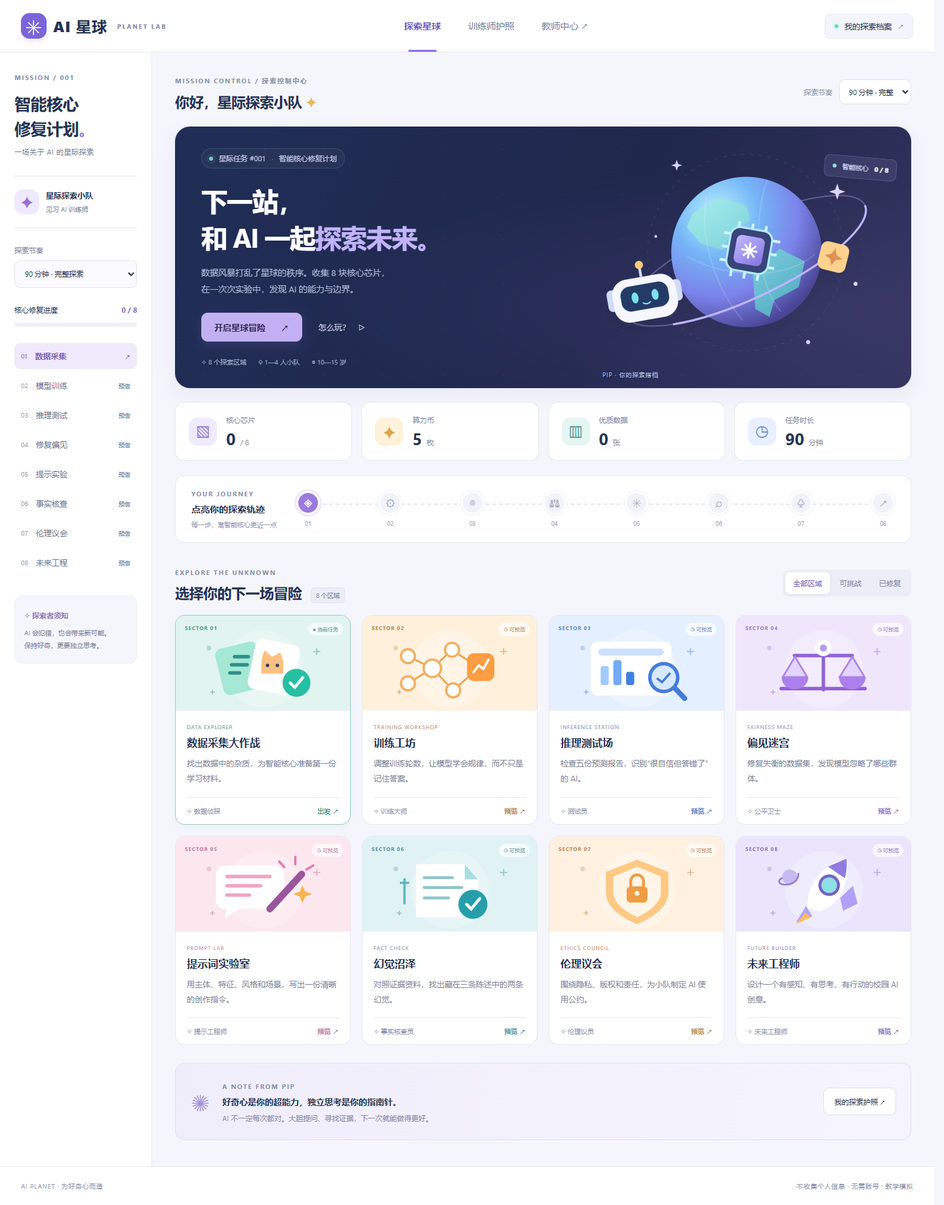
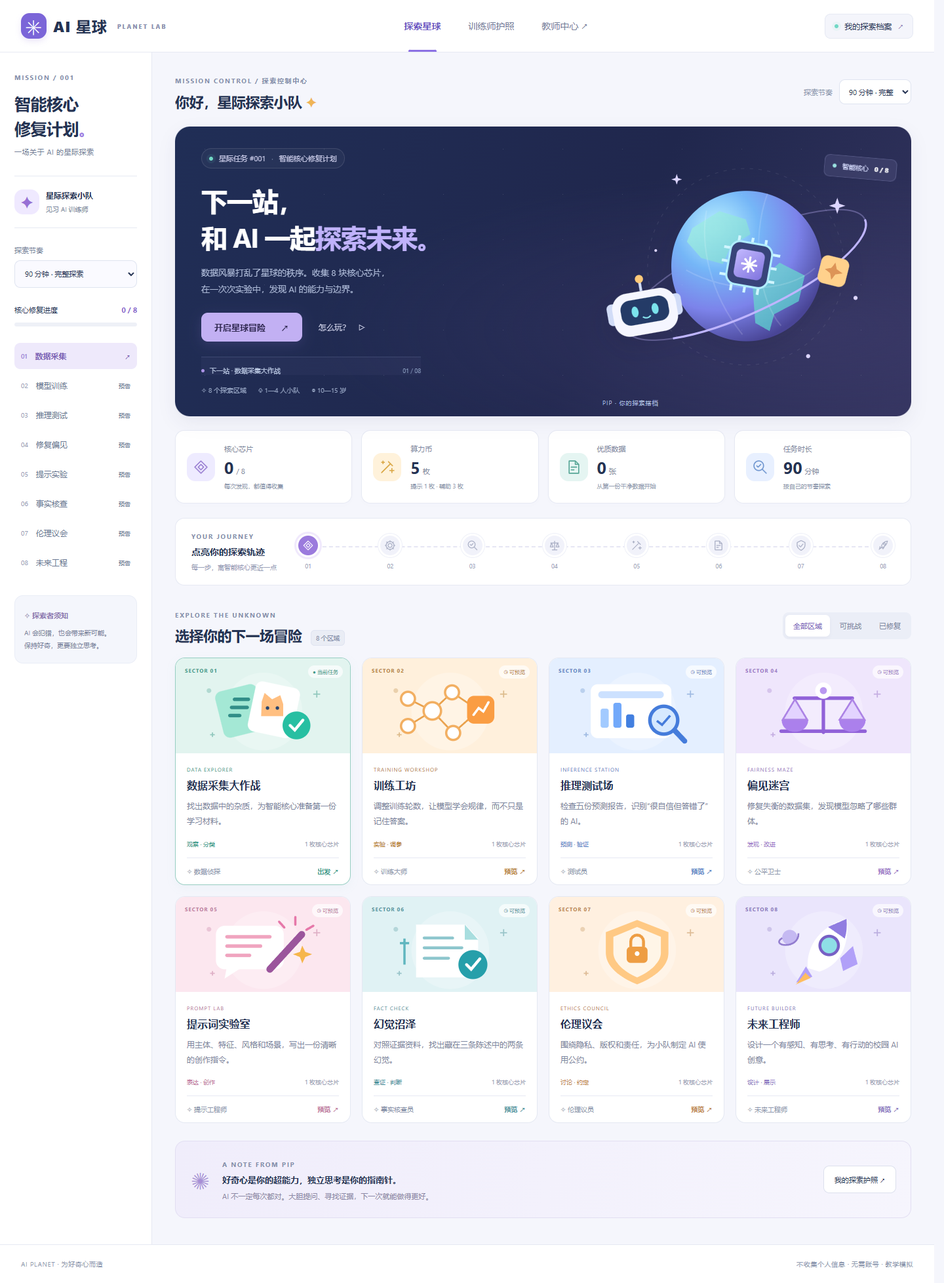
feat: refine mission map typography and iconography (round 2)

diff --git a/app.js b/app.js
@@ -1,6 +1,6 @@
 import { newState, restore, STORAGE_KEY, unlocked, complete, buyHint, buySkip, training, balance, award } from './engine.js';
 import { stages, cards, samples } from './content.js';
-import { scene, heroArt } from './visuals.js';
+import { scene, heroArt, glyph } from './visuals.js';
 
 const $ = (q, root = document) => root.querySelector(q);
 const $$ = (q, root = document) => [...root.querySelectorAll(q)];
@@ -60,7 +60,15 @@ function sync() {
   $('#stage-list').innerHTML = stages.map((s,i) => `<button class="stage-link ${state.completed.includes(i)?'done':unlocked(state,i)?'current':'upcoming'}" data-stage="${i}" aria-label="${s.name}，${unlocked(state,i)?'进入关卡':'查看预告'}"><span>${state.completed.includes(i)?'✓':String(i+1).padStart(2,'0')}</span>${s.short}<small>${!unlocked(state,i)?'预告':'↗'}</small></button>`).join('');
   $$('.nav-button').forEach(b => b.classList.toggle('active', b.dataset.view===view));
 }
-function stats() { return `<div class="stats"><div><span class="stat-symbol">▧</span><div><small>核心芯片</small><strong>${state.completed.length}<em> / 8</em></strong></div></div><div><span class="stat-symbol coin">✦</span><div><small>算力币</small><strong>${state.coins}<em> 枚</em></strong></div></div><div><span class="stat-symbol data">▥</span><div><small>优质数据</small><strong>${state.data}<em> 张</em></strong></div></div><div><span class="stat-symbol time">◷</span><div><small>任务时长</small><strong>${state.mode==='project'?'4':state.mode}<em> ${state.mode==='project'?'课时':'分钟'}</em></strong></div></div></div>`; }
+function stats() {
+  const metrics=[
+    {label:'核心芯片',value:state.completed.length,unit:'/ 8',note:state.completed.length===8?'智能核心已修复':'每次发现，都值得收集',icon:0,style:''},
+    {label:'算力币',value:state.coins,unit:'枚',note:'提示 1 枚 · 辅助 3 枚',icon:4,style:'coin'},
+    {label:'优质数据',value:state.data,unit:'张',note:state.data?'第一关筛选所得':'从第一份干净数据开始',icon:5,style:'data'},
+    {label:'任务时长',value:state.mode==='project'?'4':state.mode,unit:state.mode==='project'?'课时':'分钟',note:'按自己的节奏探索',icon:2,style:'time'}
+  ];
+  return `<div class="stats">${metrics.map(m=>`<div><span class="stat-symbol ${m.style}">${glyph(m.icon)}</span><div><small>${m.label}</small><strong>${m.value}<em>${m.unit}</em></strong><span class="metric-note">${m.note}</span></div></div>`).join('')}</div>`;
+}
 function render() {
   sync();
   if (view === 'passport') return renderPassport();
@@ -69,15 +77,15 @@ function render() {
   const selected = stages.map((s,i) => ({...s,i})).filter(s => filter === 'all' || (filter === 'done' ? state.completed.includes(s.i) : unlocked(state,s.i) && !state.completed.includes(s.i)));
   $('#main').innerHTML = `
     <div class="page-heading"><div><span class="eyebrow">MISSION CONTROL / 探索控制中心</span><h2>你好，${escape(state.team)} <span class="wave">✦</span></h2></div><label class="pace-control" for="map-mode"><span>探索节奏</span><select id="map-mode"><option value="45" ${state.mode==='45'?'selected':''}>45 分钟 · 精简</option><option value="90" ${state.mode==='90'?'selected':''}>90 分钟 · 完整</option><option value="project" ${state.mode==='project'?'selected':''}>4 课时 · 项目</option></select></label></div>
-    <section class="hero"><div class="hero-copy"><span class="mission-pill"><i></i> 星际任务 #001 <span>·</span> 智能核心修复计划</span><h1>下一站，<br>和 AI 一起<span>探索未来。</span></h1><p>数据风暴打乱了星球的秩序。收集 8 块核心芯片，<br>在一次次实验中，发现 AI 的能力与边界。</p><div class="hero-actions"><button class="primary" ${next<0?'data-view="passport"':`data-stage="${next}"`}>${next<0?'查看修复成果':state.completed.length?'继续我的冒险':'开启星球冒险'} <span>↗</span></button><button class="hero-secondary" data-view="teacher">怎么玩？ <span>▷</span></button></div><div class="hero-meta"><span>✧ 8 个探索区域</span><span>♧ 1—4 人小队</span><span>◎ 10—15 岁</span></div></div>${heroArt(state.completed.length)}</section>
+    <section class="hero"><div class="hero-copy"><span class="mission-pill"><i></i> 星际任务 #001 <span>·</span> 智能核心修复计划</span><h1>下一站，<br>和 AI 一起<span>探索未来。</span></h1><p>数据风暴打乱了星球的秩序。收集 8 块核心芯片，<br>在一次次实验中，发现 AI 的能力与边界。</p><div class="hero-actions"><button class="primary" ${next<0?'data-view="passport"':`data-stage="${next}"`}>${next<0?'查看修复成果':state.completed.length?'继续我的冒险':'开启星球冒险'} <span>↗</span></button><button class="hero-secondary" data-view="teacher">怎么玩？ <span>▷</span></button></div><div class="next-destination"><span class="destination-dot"></span>${next<0?'所有区域已点亮，去护照回顾你的发现':`下一站 · ${stages[next].name}`}<span>${next<0?'8 / 8':String(next+1).padStart(2,'0')+' / 08'}</span></div><div class="hero-meta"><span>✧ 8 个探索区域</span><span>♧ 1—4 人小队</span><span>◎ 10—15 岁</span></div></div>${heroArt(state.completed.length)}</section>
     ${stats()}
-    <section class="expedition-strip"><div class="expedition-title"><span class="eyebrow">YOUR JOURNEY</span><strong>点亮你的探索轨迹</strong><small>每一步，离智能核心更近一点</small></div><div class="journey-nodes">${stages.map((s,i)=>`<button data-stage="${i}" class="journey-node ${state.completed.includes(i)?'done':unlocked(state,i)?'current':''}" aria-label="${s.name}，${unlocked(state,i)?'进入关卡':'查看预告'}"><span>${state.completed.includes(i)?'✓':s.icon}</span><small>${String(i+1).padStart(2,'0')}</small></button>`).join('')}</div></section>
+    <section class="expedition-strip"><div class="expedition-title"><span class="eyebrow">YOUR JOURNEY</span><strong>点亮你的探索轨迹</strong><small>每一步，离智能核心更近一点</small></div><div class="journey-nodes">${stages.map((s,i)=>`<button data-stage="${i}" class="journey-node ${state.completed.includes(i)?'done':unlocked(state,i)?'current':''}" aria-label="${s.name}，${unlocked(state,i)?'进入关卡':'查看预告'}"><span>${state.completed.includes(i)?'✓':glyph(i)}</span><small>${String(i+1).padStart(2,'0')}</small><span class="journey-tooltip">${s.short}</span></button>`).join('')}</div></section>
     <section class="map-section"><div class="section-heading"><div><span class="eyebrow">EXPLORE THE UNKNOWN</span><h2>选择你的下一场冒险 <span class="count-label">8 个区域</span></h2></div><div class="filters" aria-label="筛选关卡">${[['all','全部区域'],['ready','可挑战'],['done','已修复']].map(([id,label])=>`<button data-filter="${id}" aria-pressed="${filter===id}" class="${filter===id?'selected':''}">${label}</button>`).join('')}</div></div>
-    <div class="level-grid">${selected.map(s=>{const i=s.i,done=state.completed.includes(i),lock=!unlocked(state,i); return `<button class="level-card region-${i} ${done?'completed':lock?'locked':'available'}" data-stage="${i}" aria-label="${s.name}，${done?'查看成果':lock?'查看关卡预告':'开始挑战'}"><div class="card-illustration"><span class="level-index">SECTOR ${String(i+1).padStart(2,'0')}</span><span class="card-status">${done?'✓ 已修复':lock?'◷ 可预览':'● 当前任务'}</span>${scene(i)}</div><div class="card-copy"><div class="level-en">${s.en}</div><h3>${s.name}</h3><p>${s.desc}</p><div class="card-footer"><span>✧ ${s.badge}</span><span class="card-arrow">${done?'回顾':lock?'预览':'出发'} ↗</span></div></div></button>`;}).join('') || `<div class="empty-state"><span>✧</span><h3>${filter==='done'?'这里即将点亮你的第一枚徽章':'所有区域已修复！'}</h3><p>${filter==='done'?'完成一个任务，回来看看你的探索成果。':'前往护照，回顾这段星际旅程。'}</p><button class="secondary" ${filter==='done'?'data-filter="all"':'data-view="passport"'}>${filter==='done'?'查看全部区域':'查看训练师护照'} →</button></div>`}</div></section>
+    <div class="level-grid">${selected.map(s=>{const i=s.i,done=state.completed.includes(i),lock=!unlocked(state,i); return `<button class="level-card region-${i} ${done?'completed':lock?'locked':'available'}" data-stage="${i}" aria-label="${s.name}，${done?'查看成果':lock?'查看关卡预告':'开始挑战'}"><div class="card-illustration"><span class="level-index">SECTOR ${String(i+1).padStart(2,'0')}</span><span class="card-status">${done?'✓ 已修复':lock?'◷ 可预览':'● 当前任务'}</span>${scene(i)}</div><div class="card-copy"><div class="level-en">${s.en}</div><h3>${s.name}</h3><p>${s.desc}</p><div class="card-tags"><span>${['观察 · 分类','实验 · 调参','预测 · 验证','发现 · 改进','表达 · 创作','查证 · 判断','讨论 · 约定','设计 · 展示'][i]}</span><span>${done?'芯片已归档':'1 枚核心芯片'}</span></div><div class="card-footer"><span>✧ ${s.badge}</span><span class="card-arrow">${done?'回顾':lock?'预览':'出发'} ↗</span></div></div></button>`;}).join('') || `<div class="empty-state"><span>✧</span><h3>${filter==='done'?'这里即将点亮你的第一枚徽章':'所有区域已修复！'}</h3><p>${filter==='done'?'完成一个任务，回来看看你的探索成果。':'前往护照，回顾这段星际旅程。'}</p><button class="secondary" ${filter==='done'?'data-filter="all"':'data-view="passport"'}>${filter==='done'?'查看全部区域':'查看训练师护照'} →</button></div>`}</div></section>
     <section class="bottom-note"><div class="note-icon">✺</div><div><span class="eyebrow">A NOTE FROM PIP</span><strong>好奇心是你的超能力，独立思考是你的指南针。</strong><p>AI 不一定每次都对。大胆提问、寻找证据，下一次就能做得更好。</p></div><button class="secondary" data-view="passport">我的探索护照 ↗</button></section>`;
 }
 function renderPassport() {
-  $('#main').innerHTML = `<span class="eyebrow">MY EXPLORER PASSPORT</span><div class="section-heading"><h1>训练师护照</h1><button class="secondary" id="export">导出探索记录 ↓</button></div><section class="panel"><label for="team-name">小队代号（请勿填写真实姓名）</label><div class="inline-form"><input id="team-name" maxlength="24" value="${escape(state.team)}"><button class="primary" id="save-team">保存代号</button></div><p class="muted">角色分工：数据官 · 训练师 · 测试员 · 伦理官。单人可依次扮演全部角色。</p></section>${stats()}<section class="panel"><h2>${award(state)}</h2><p>${state.completed.length===8?'8 块芯片已归位，智能核心重新点亮！请和伙伴分享最重要的发现。':'每完成一个区域，你的护照就会多一枚徽章。'}</p><div class="badge-grid">${stages.map((s,i)=>`<button class="badge ${state.completed.includes(i)?'earned':''}" data-stage="${i}" aria-label="查看${s.badge}徽章与关卡"><span>${s.icon}</span><strong>${s.badge}</strong><small>${state.completed.includes(i)?`${state.scores[i]} 分 · 已收集`: '点击了解任务'}</small></button>`).join('')}</div></section><section class="panel"><h2>团队协作复盘</h2><p class="muted">由小队或教师共同确认；单人模式可按不同角色自评。</p>${['我能倾听并复述伙伴的想法','我能说明自己的证据和推理过程','我能发现风险并主动提出改进'].map((t,i)=>`<label class="check-row"><input type="checkbox" class="collab" ${state.collaborationItems[i]?'checked':''}>${t}</label>`).join('')}<p id="award-note">${state.completed.includes(6)?'✧ 最佳伦理议员：已完成 AI 使用公约。':''}</p></section><section class="panel"><h2>探索记录</h2>${state.completed.map(i=>`<details><summary>${String(i+1).padStart(2,'0')} ${stages[i].name} · ${state.scores[i]} 分${state.skips.includes(i)?' · 使用辅助':''}</summary>${answerView(state.answers[i])}</details>`).join('') || '<p class="muted">还没有完成的关卡，去星球地图开启第一步吧。</p>'}<h3>星际事件</h3>${state.events.map(e=>`<p class="event">${escape(e)}</p>`).join('')||'<p class="muted">星际巡航尚未开始。</p>'}</section><div class="page-actions"><button class="secondary" id="print">打印护照</button><button class="text-button danger" id="reset">重新开始探索</button></div>`;
+  $('#main').innerHTML = `<span class="eyebrow">MY EXPLORER PASSPORT</span><div class="section-heading"><h1>训练师护照</h1><button class="secondary" id="export">导出探索记录 ↓</button></div><section class="panel"><label for="team-name">小队代号（请勿填写真实姓名）</label><div class="inline-form"><input id="team-name" maxlength="24" value="${escape(state.team)}"><button class="primary" id="save-team">保存代号</button></div><p class="muted">角色分工：数据官 · 训练师 · 测试员 · 伦理官。单人可依次扮演全部角色。</p></section>${stats()}<section class="panel"><h2>${award(state)}</h2><p>${state.completed.length===8?'8 块芯片已归位，智能核心重新点亮！请和伙伴分享最重要的发现。':'每完成一个区域，你的护照就会多一枚徽章。'}</p><div class="badge-grid">${stages.map((s,i)=>`<button class="badge ${state.completed.includes(i)?'earned':''}" data-stage="${i}" aria-label="查看${s.badge}徽章与关卡"><span>${glyph(i)}</span><strong>${s.badge}</strong><small>${state.completed.includes(i)?`${state.scores[i]} 分 · 已收集`: '点击了解任务'}</small></button>`).join('')}</div></section><section class="panel"><h2>团队协作复盘</h2><p class="muted">由小队或教师共同确认；单人模式可按不同角色自评。</p>${['我能倾听并复述伙伴的想法','我能说明自己的证据和推理过程','我能发现风险并主动提出改进'].map((t,i)=>`<label class="check-row"><input type="checkbox" class="collab" ${state.collaborationItems[i]?'checked':''}>${t}</label>`).join('')}<p id="award-note">${state.completed.includes(6)?'✧ 最佳伦理议员：已完成 AI 使用公约。':''}</p></section><section class="panel"><h2>探索记录</h2>${state.completed.map(i=>`<details><summary>${String(i+1).padStart(2,'0')} ${stages[i].name} · ${state.scores[i]} 分${state.skips.includes(i)?' · 使用辅助':''}</summary>${answerView(state.answers[i])}</details>`).join('') || '<p class="muted">还没有完成的关卡，去星球地图开启第一步吧。</p>'}<h3>星际事件</h3>${state.events.map(e=>`<p class="event">${escape(e)}</p>`).join('')||'<p class="muted">星际巡航尚未开始。</p>'}</section><div class="page-actions"><button class="secondary" id="print">打印护照</button><button class="text-button danger" id="reset">重新开始探索</button></div>`;
 }
 function renderTeacher() {
   $('#main').innerHTML = `<span class="eyebrow">TEACHER'S FIELD GUIDE</span><h1>把好奇心带进课堂。</h1><p class="lead">每一次判断，都比一个正确答案更重要。</p><section class="panel"><h2>选择你的课堂节奏</h2><div class="teacher-grid"><div><h3>45 分钟 · 精简挑战</h3><p>开场 3 分钟 → 每关约 4 分钟 → 分享 10 分钟。保留全部核心概念，口头复盘。</p></div><div><h3>90 分钟 · 完整探索</h3><p>开场 5 分钟 → 每关约 9 分钟 → 分享 13 分钟。轮换团队角色，并解释每次判断。</p></div><div><h3>4 课时 · 项目实践</h3><p>每课时完成 2 关；第 4 课时安排校园 AI 方案展示与同伴反馈。建议每课时 40 分钟。</p></div></div><p class="muted">节奏设置调整教学提示与任务时长，不设置倒计时、不减少关卡；教师可灵活掌握讨论时间。</p></section><section class="panel"><h2>教师引导问题</h2><ol><li>AI 根据什么做出判断？训练数据能代表现实吗？</li><li>为什么数据更多不一定更好？干净的数据是否也可能缺乏代表性？</li><li>模型很有信心时，我们还需要哪些证据？</li><li>AI 出错时，谁应检查、纠正和承担责任？</li><li>像人一样说话，能证明 AI 有意识吗？我们还缺少什么证据？</li></ol></section><section class="panel"><h2>安全与课堂约定</h2><ul><li>不拍人脸，不输入姓名、联系方式、住址等个人信息。</li><li>本游戏不联网调用模型；模型训练、准确率、生成作品均为教学模拟。</li><li>外部 AI 工具由教师使用合适账号并全程陪同，先确认适龄条件与数据规则。</li><li>尊重不同背景，避免用群体刻板印象解释偏见。</li><li>开放题的自动通关只表示材料填写完整，质量由教师或同伴讨论确认。</li></ul></section><section class="panel"><h2>准备与评价</h2><p>线上：每组一台电脑或平板；不插电：30 张数据卡、标签贴、护照、芯片贴纸、算力币与海报纸。</p><p>每关首次完成获得 1 枚芯片和 2 枚算力币。提示花费 1 枚，辅助解题花费 3 枚；重复查看不再发奖。辅助解题后仍需提交作品或概念回答。</p><p>金牌：全部通关、平均分 ≥85、优质数据 ≥20、算力币 ≥5、协作自评 ≥2；其他全部通关者获得银牌。完成伦理议会另获伦理议员称号。</p><button class="secondary" id="print">打印本页</button></section>`;
@@ -124,7 +132,7 @@ function openStage(id) {
   }
   active = id;
   const s=stages[id], done=state.completed.includes(id);
-  $('#dialog-content').innerHTML = `<div class="dialog-header"><span class="eyebrow">LEVEL ${String(id+1).padStart(2,'0')} / ${s.en}</span><button class="close" id="close-dialog" aria-label="关闭关卡">×</button></div><h2 id="dialog-title">${s.name}</h2><p class="lead">${s.concept}</p><div class="task-context"><span class="task-context-icon">${s.icon}</span><div><span class="eyebrow">本次探索</span><strong>观察现象 → 动手实验 → 解释你的发现</strong></div><span class="dialog-balance">✦ ${state.coins} 枚算力币</span></div><div class="mission-timing">${state.mode==='45'?'建议 4 分钟 · 完成操作并口头解释':state.mode==='project'?'建议 15 分钟 · 操作、记录并分享':'建议 9 分钟 · 轮换角色并讨论证据'}</div>${done?`<div class="success-panel"><div class="earned-seal"><span>${s.icon}</span><i>✓</i></div><span class="eyebrow">MISSION COMPLETE · 探索已完成</span><h3>${s.badge} · 芯片已收集</h3><div class="reward-receipt"><div><small>本关成绩</small><strong>${state.scores[id]} 分</strong></div><div><small>累计芯片</small><strong>${state.completed.length} / 8</strong></div><div><small>当前算力币</small><strong>${state.coins} 枚</strong></div></div>${state.skips.includes(id)?'<p class="assisted-note">本关使用了辅助解题，继续把发现分享给伙伴吧。</p>':''}<p>${s.fact}</p><details class="reflection-details"><summary>查看我的探索记录</summary>${answerView(state.answers[id])}</details><button class="primary" id="next-stage">${id===7?'查看最终成果':'前往下一区域 →'}</button></div>`:`<form id="mission-form">${stageBody(id)}<div class="hint-box" id="hint-box" ${state.hints.includes(id)||state.skips.includes(id)?'':'hidden'}>${s.hint}</div><div id="feedback" role="status" aria-live="polite"></div><div class="mission-actions"><button type="button" class="secondary" id="hint" ${state.hints.includes(id)?'disabled':''}>${state.hints.includes(id)?'提示已解锁':'提示 · 1 币'}</button><button type="button" class="text-button" id="assist" ${state.skips.includes(id)?'disabled':''}>${state.skips.includes(id)?'已使用辅助':'辅助解题 · 3 币'}</button><button class="primary" type="submit">提交修复 ↗</button></div><p class="muted small">辅助解题会填入操作题参考答案；文字作品仍需自己完成，本关最高 60 分。</p></form>`}`;
+  $('#dialog-content').innerHTML = `<div class="dialog-header"><span class="eyebrow">LEVEL ${String(id+1).padStart(2,'0')} / ${s.en}</span><button class="close" id="close-dialog" aria-label="关闭关卡">×</button></div><h2 id="dialog-title">${s.name}</h2><p class="lead">${s.concept}</p><div class="task-context"><span class="task-context-icon">${glyph(id)}</span><div><span class="eyebrow">本次探索</span><strong>观察现象 → 动手实验 → 解释你的发现</strong></div><span class="dialog-balance">✦ ${state.coins} 枚算力币</span></div><div class="mission-timing">${state.mode==='45'?'建议 4 分钟 · 完成操作并口头解释':state.mode==='project'?'建议 15 分钟 · 操作、记录并分享':'建议 9 分钟 · 轮换角色并讨论证据'}</div>${done?`<div class="success-panel"><div class="earned-seal"><span>${glyph(id)}</span><i>✓</i></div><span class="eyebrow">MISSION COMPLETE · 探索已完成</span><h3>${s.badge} · 芯片已收集</h3><div class="reward-receipt"><div><small>本关成绩</small><strong>${state.scores[id]} 分</strong></div><div><small>累计芯片</small><strong>${state.completed.length} / 8</strong></div><div><small>当前算力币</small><strong>${state.coins} 枚</strong></div></div>${state.skips.includes(id)?'<p class="assisted-note">本关使用了辅助解题，继续把发现分享给伙伴吧。</p>':''}<p>${s.fact}</p><details class="reflection-details"><summary>查看我的探索记录</summary>${answerView(state.answers[id])}</details><button class="primary" id="next-stage">${id===7?'查看最终成果':'前往下一区域 →'}</button></div>`:`<form id="mission-form">${stageBody(id)}<div class="hint-box" id="hint-box" ${state.hints.includes(id)||state.skips.includes(id)?'':'hidden'}>${s.hint}</div><div id="feedback" role="status" aria-live="polite"></div><div class="mission-actions"><button type="button" class="secondary" id="hint" ${state.hints.includes(id)?'disabled':''}>${state.hints.includes(id)?'提示已解锁':'提示 · 1 币'}</button><button type="button" class="text-button" id="assist" ${state.skips.includes(id)?'disabled':''}>${state.skips.includes(id)?'已使用辅助':'辅助解题 · 3 币'}</button><button class="primary" type="submit">提交修复 ↗</button></div><p class="muted small">辅助解题会填入操作题参考答案；文字作品仍需自己完成，本关最高 60 分。</p></form>`}`;
   if (!$('#mission-dialog').open) $('#mission-dialog').showModal();
   if (!done) {
     $('#mission-form').noValidate = true;

diff --git a/styles.css b/styles.css
@@ -2791,3 +2791,52 @@ dialog
   .reward-receipt strong { font-size:17px; }
 }
 @media print { .badge { display:block!important; break-inside:avoid; } }
+
+/* Round 2 — a consistent visual language for the expedition */
+.ui-icon { width:24px; height:24px; display:block; flex-shrink:0; }
+.stat-symbol .ui-icon { width:25px; height:25px; }
+.metric-note { display:block; font-size:9px; color:#919bb0; margin-top:8px; white-space:nowrap; }
+.stats>div { padding:20px 17px; }
+.next-destination { display:flex; align-items:center; gap:8px; max-width:335px; font-size:10px; color:#b6c4df; background:#b8b8ef0a; border-top:1px solid #b0bde629; padding:13px 0 0; margin-top:23px; }
+.next-destination>span:last-child { margin-left:auto; color:#899bbe; font-size:9px; font-variant-numeric:tabular-nums; }
+.destination-dot { width:5px; height:5px; border-radius:50%; background:#ab92e6; }
+.hero-meta { margin-top:16px; }
+.hero { min-height:398px; }
+.hero-svg { animation:orbital-float 8s ease-in-out infinite alternate; }
+@keyframes orbital-float { from { transform:translateY(-3px); } to { transform:translateY(5px); } }
+.journey-node>span:first-child .ui-icon { width:18px; height:18px; }
+.journey-node>.journey-tooltip { position:absolute; top:-33px; left:50%; width:max-content; height:auto; display:block; padding:6px 9px; transform:translate(-50%,4px); background:#354565; color:white; border:0; border-radius:6px; box-shadow:0 3px 9px #29385b20; font-size:10px; opacity:0; pointer-events:none; transition:.15s; }
+.journey-node:hover>.journey-tooltip,.journey-node:focus-visible>.journey-tooltip { opacity:1; transform:translate(-50%,0); background:#354565; color:white; }
+.journey-node:first-child>.journey-tooltip { left:0; transform:translate(0,4px); }
+.journey-node:last-child>.journey-tooltip { left:auto; right:0; transform:translate(0,4px); }
+.card-tags { display:flex; justify-content:space-between; gap:6px; padding-bottom:15px; font-size:9px; color:#9aa3b4; }
+.card-tags>span:first-child { color:var(--accent-ink); }
+.level-card .scene-svg { transition:transform .3s; }
+.level-card:hover .scene-svg { transform:translateY(-2px) scale(1.035); }
+.card-arrow { transition:transform .2s; }
+.level-card:hover .card-arrow { transform:translateX(3px); }
+.primary:active,.secondary:active { transform:translateY(1px); box-shadow:none; }
+.filters button { transition:color .15s,background .15s,box-shadow .15s; }
+.level-card h3 { letter-spacing:.1px; }
+.badge>span .ui-icon { width:34px; height:34px; margin:auto; }
+.earned-seal .ui-icon { width:40px; height:40px; }
+.task-context-icon .ui-icon { width:23px; height:23px; }
+@media(max-width:1200px) { .metric-note { font-size:8px; } .stats>div { padding:17px 12px; } .stats>div>div { min-width:0; } }
+@media(max-width:480px) {
+  .hero { min-height:465px; padding-bottom:26px; }
+  .next-destination { font-size:9px; max-width:100%; margin-top:19px; padding-top:12px; }
+  .hero-meta { margin-top:20px; max-width:52%; }
+  .space-art { width:165px; height:143px; bottom:-8px; }
+  .hero-actions .primary { min-height:45px; }
+  .metric-note { font-size:8px; white-space:normal; line-height:1.5; }
+  .stats>div { padding:15px 11px; gap:9px; }
+  .stat-symbol { width:32px; height:36px; flex-shrink:0; }
+  .stat-symbol .ui-icon { width:21px; height:21px; }
+  .stats em { margin-left:2px; }
+  .card-tags { font-size:8px; flex-wrap:wrap; }
+  .card-tags>span:last-child { display:none; }
+  .journey-node>span:first-child .ui-icon { width:15px; height:15px; }
+  .journey-tooltip { display:none!important; }
+}
+@media(prefers-reduced-motion:reduce) { *,*::before,*::after { animation:none!important; transition:none!important; } }
+@media print { .hero-svg { animation:none; } }

diff --git a/visuals.js b/visuals.js
@@ -1,4 +1,17 @@
 // Original vector illustrations, drawn locally. No external image requests.
+export function glyph(index) {
+  const paths=[
+    '<path d="M12 3l9 9-9 9-9-9z"/><path d="M12 8l4 4-4 4-4-4z"/>',
+    '<circle cx="12" cy="12" r="4"/><path d="M12 2v3m0 14v3M2 12h3m14 0h3M5 5l2 2m10 10 2 2M5 19l2-2M17 7l2-2"/><circle cx="12" cy="12" r="8"/>',
+    '<circle cx="10" cy="10" r="7"/><path d="M15 15l6 6M7 10l2 2 4-4"/>',
+    '<path d="M12 3v18M4 7h16M3 15l3-8 3 8zm12 0 3-8 3 8zM7 21h10"/>',
+    '<path d="M4 20L17 7m-3-3 6 6M6 3v4M4 5h4m11 9v6m-3-3h6"/>',
+    '<path d="M14 3H5v18h14V8zM14 3v5h5M8 12h8m-8 4h4"/>',
+    '<path d="M12 2l8 4v6c0 5-8 10-8 10S4 17 4 12V6zM8 12l3 3 5-6"/>',
+    '<path d="M9 16l-4 3 1-5m3 2 3 3 3-5M9 16C8 9 14 4 21 3c-1 7-6 13-12 13zM4 20l3-3"/><circle cx="15" cy="9" r="2"/>'
+  ];
+  return `<svg class="ui-icon" viewBox="0 0 24 24" fill="none" stroke="currentColor" stroke-width="1.6" stroke-linecap="round" stroke-linejoin="round" aria-hidden="true">${paths[index] || paths[0]}</svg>`;
+}
 const scenes = [
   `<rect x="69" y="42" width="74" height="82" rx="12" fill="#a4e8d5" transform="rotate(-14 106 83)"/><rect x="125" y="37" width="78" height="88" rx="12" fill="#fff" transform="rotate(12 164 81)"/><path d="M143 67l5-15 13 11 14-7 5 15v21h-38z" fill="#ffbf81"/><circle cx="153" cy="78" r="3" fill="#29456e"/><circle cx="170" cy="78" r="3" fill="#29456e"/><path d="M96 63h24M91 77h27M88 91h17" stroke="#328e88" stroke-width="6" stroke-linecap="round"/><circle cx="203" cy="108" r="24" fill="#27bfa2"/><path d="M192 108l8 8 14-17" fill="none" stroke="white" stroke-width="5" stroke-linecap="round"/>`,
   `<path d="M73 62l42 21 34-32 46 31M73 109l42-26 36 38 44-39" fill="none" stroke="#e9a14c" stroke-width="3"/><g fill="#fff" stroke="#f2af62" stroke-width="4"><circle cx="73" cy="62" r="12"/><circle cx="73" cy="109" r="12"/><circle cx="115" cy="83" r="15"/><circle cx="149" cy="51" r="12"/><circle cx="151" cy="121" r="12"/></g><rect x="175" y="57" width="47" height="48" rx="12" fill="#fa9d43"/><path d="M186 90l9-12 8 6 9-16" fill="none" stroke="#fff" stroke-width="4" stroke-linecap="round"/>`,

diff --git a/docs/POLISH_LOG.md b/docs/POLISH_LOG.md
@@ -11,6 +11,13 @@
 - 护照徽章可点击查看对应任务，打印时保留徽章。
 - 验证：语法检查与专项浏览器交互检查。
 
+## 第 2 轮：首页视觉语言
+
+- 用同一组原创线性 SVG 统一指标、轨迹、徽章与关卡图标。
+- 增加当前任务提示、指标说明和卡片技能标签，强化信息层级。
+- 轨迹支持悬停/键盘提示，插画与按钮增加轻量反馈；系统减少动画设置可关闭动效。
+- 验证：360、390、768、1024、1440 像素布局、轨迹导航与减少动画模式均通过。
+
 ## 后续轮次
 
 2. 首页布局、图标和导航细节。
